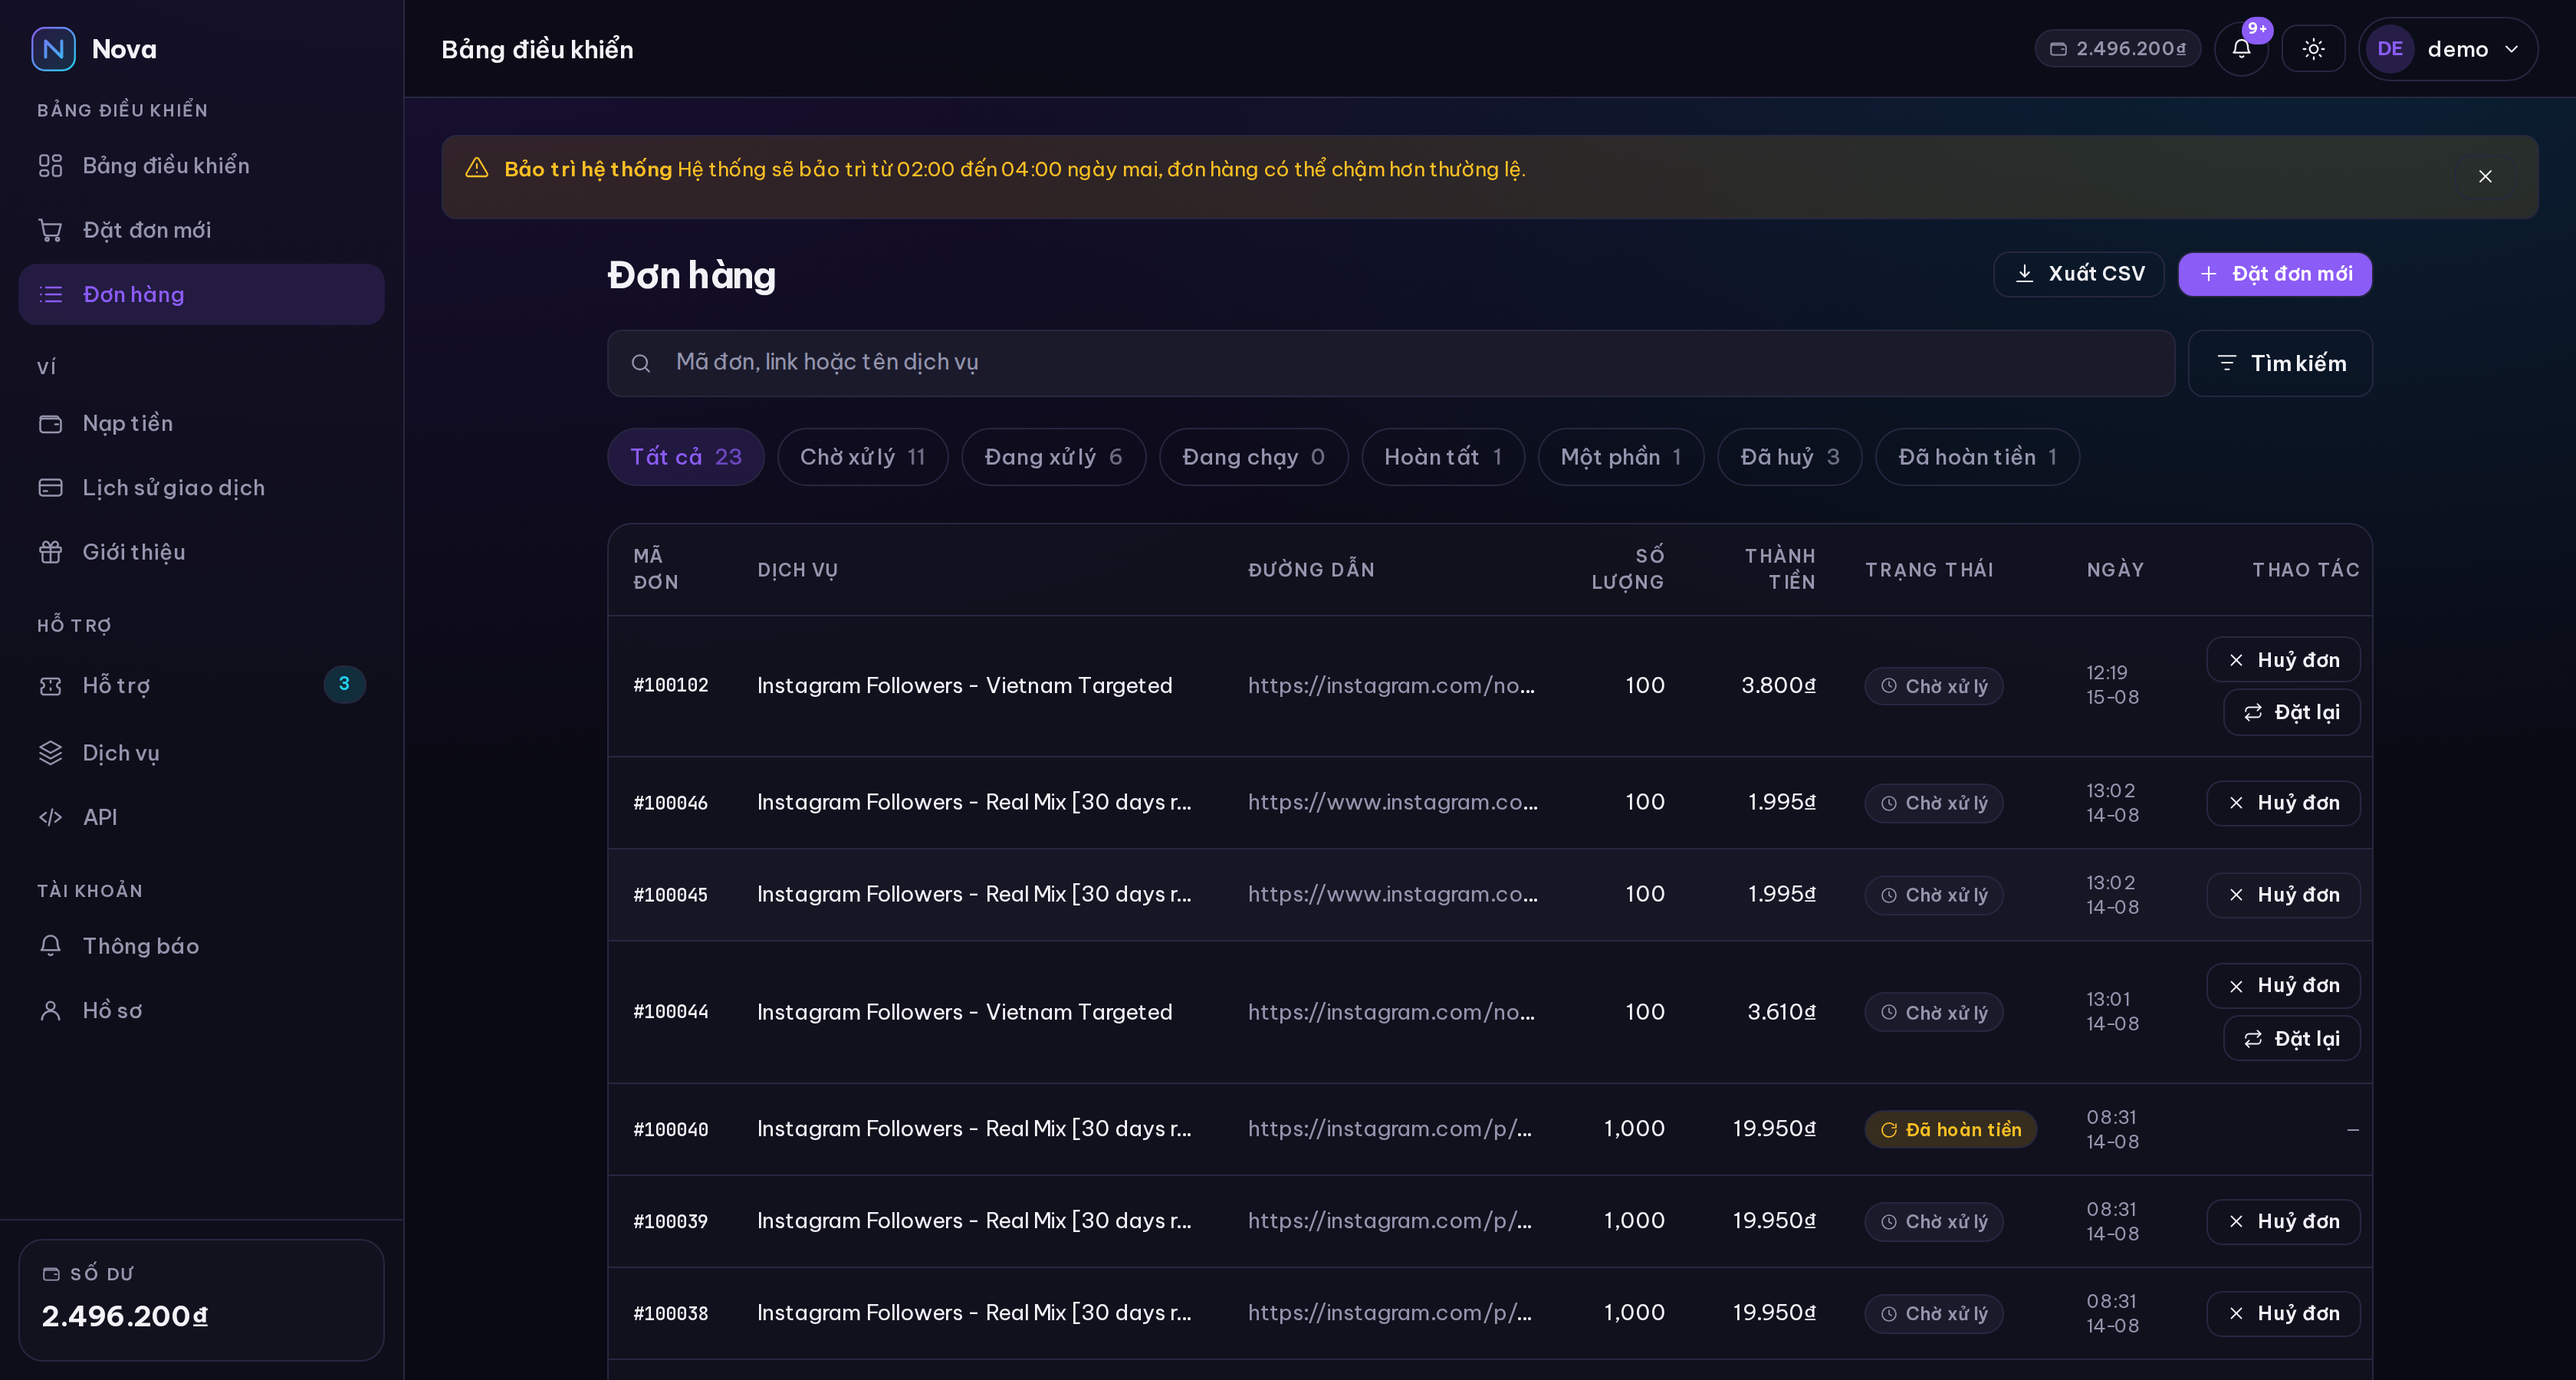
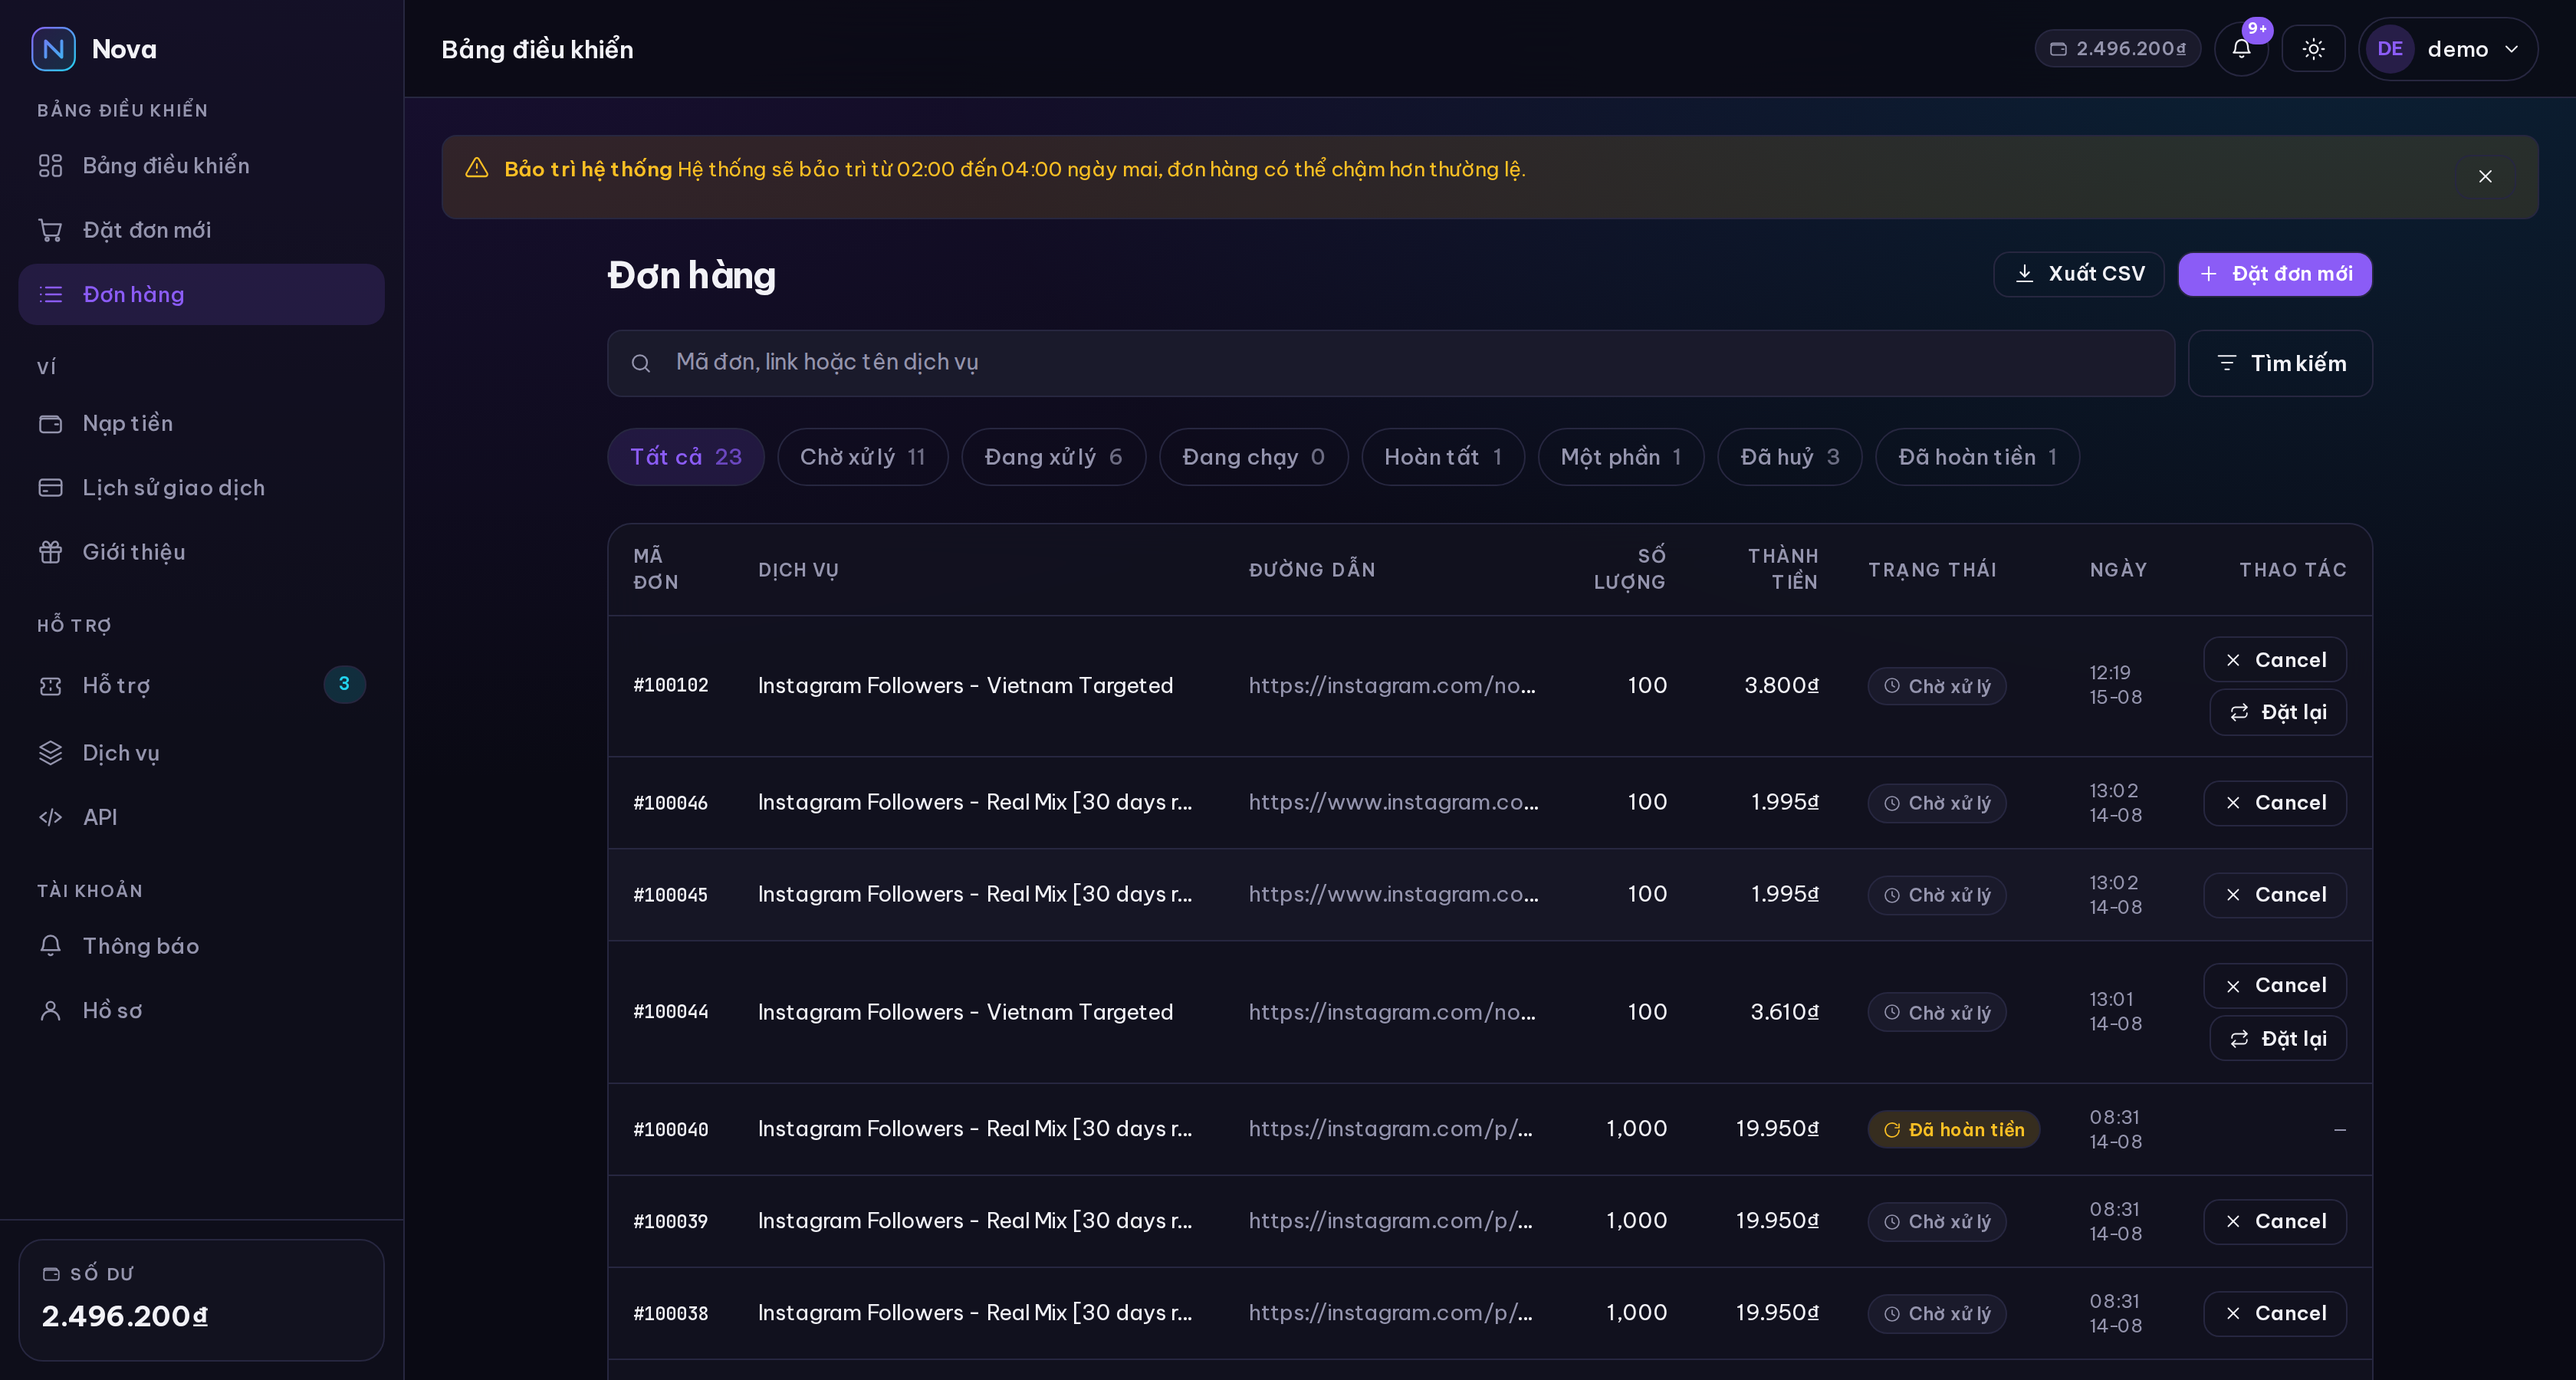
Refill and cancel keep their trade names in Vietnamese too
Twenty-nine strings: the buttons, the tiles, the request history, the
notification titles, the activity log, the admin settings and the
refusals that quote them. The Vietnamese sentence stays around the term —
"Đơn đã chạy nên không cancel được" — because it is the noun that is
jargon, not the grammar.

Left alone on purpose: status.canceled stays "Đã huỷ", which is one rung
of the status ladder rather than the cancel feature, and wallet's "Huỷ
lệnh nạp" has nothing to do with orders.

diff --git a/src/lib/dictionaries.ts b/src/lib/dictionaries.ts
@@ -1597,8 +1597,8 @@ export const vi: Partial<Record<keyof typeof en, string>> = {
   "log.order.mass": "Đặt mass order",
   "log.order.chain.blocked": "Đơn bị chặn ở tuyến trên",
   "log.order.chain.funds": "Tuyến trên không đủ số dư",
-  "log.order.refill.request": "Yêu cầu bảo hành",
-  "log.order.cancel.request": "Yêu cầu huỷ đơn",
+  "log.order.refill.request": "Yêu cầu refill",
+  "log.order.cancel.request": "Yêu cầu cancel",
   "log.admin.request.approved": "Duyệt yêu cầu",
   "log.admin.request.rejected": "Từ chối yêu cầu",
   "log.admin.request.completed": "Hoàn tất yêu cầu",
@@ -1832,12 +1832,12 @@ export const vi: Partial<Record<keyof typeof en, string>> = {
   "notify.ticket.reply.body": "{subject}",
   "notify.affiliate.commission.title": "Nhận hoa hồng giới thiệu",
   "notify.affiliate.commission.body": "Một người bạn giới thiệu vừa nạp tiền.",
-  "notify.request.refillApproved.title": "Yêu cầu bảo hành được duyệt",
-  "notify.request.refillRejected.title": "Yêu cầu bảo hành bị từ chối",
-  "notify.request.refillCompleted.title": "Đã bảo hành xong",
-  "notify.request.cancelApproved.title": "Yêu cầu huỷ được duyệt",
-  "notify.request.cancelRejected.title": "Yêu cầu huỷ bị từ chối",
-  "notify.request.cancelCompleted.title": "Đã huỷ xong",
+  "notify.request.refillApproved.title": "Yêu cầu refill được duyệt",
+  "notify.request.refillRejected.title": "Yêu cầu refill bị từ chối",
+  "notify.request.refillCompleted.title": "Đã refill xong",
+  "notify.request.cancelApproved.title": "Yêu cầu cancel được duyệt",
+  "notify.request.cancelRejected.title": "Yêu cầu cancel bị từ chối",
+  "notify.request.cancelCompleted.title": "Đã cancel xong",
   "notify.request.refillApproved.body": "Đơn #{orderId}",
   "notify.request.refillRejected.body": "Đơn #{orderId}",
   "notify.request.refillCompleted.body": "Đơn #{orderId}",
@@ -2026,7 +2026,7 @@ export const vi: Partial<Record<keyof typeof en, string>> = {
   "cron.jobHint.dispatch": "Lấy đơn chờ xử lý và mua, ưu tiên nguồn rẻ nhất.",
   "cron.job.statuses": "Kéo trạng thái đơn về",
   "cron.jobHint.statuses": "Hỏi từng nhà cung cấp xem đơn ra sao, và hoàn tiền phần giao thiếu.",
-  "cron.job.requests": "Xử lý yêu cầu bảo hành và huỷ",
+  "cron.job.requests": "Xử lý yêu cầu refill và cancel",
   "cron.jobHint.requests": "Áp dụng luật tự động, và huỷ đơn kẹt chưa gửi được.",
   "cron.job.chain": "Chuyển trạng thái xuống chuỗi panel",
   "cron.jobHint.chain": "Đưa kết quả từ panel gốc xuống tới đúng khách đã mua.",
@@ -2059,11 +2059,11 @@ export const vi: Partial<Record<keyof typeof en, string>> = {
   "adm.blockMissing": "Mục này không còn nữa.",
   "admin.release": "Duyệt",
   "admin.refuse": "Từ chối và hoàn tiền",
-  "err.noRefill": "Dịch vụ này không có bảo hành.",
-  "err.refillState": "Chỉ yêu cầu bảo hành được với đơn đã hoàn tất hoặc chạy một phần.",
-  "err.cancelDisabled": "Hiện tạm ngừng nhận yêu cầu huỷ đơn.",
-  "err.noCancel": "Dịch vụ này không cho huỷ đơn.",
-  "err.cancelStarted": "Đơn đã chạy nên không huỷ được.",
+  "err.noRefill": "Dịch vụ này không có refill.",
+  "err.refillState": "Chỉ yêu cầu refill được với đơn đã hoàn tất hoặc chạy một phần.",
+  "err.cancelDisabled": "Hiện tạm ngừng nhận yêu cầu cancel.",
+  "err.noCancel": "Dịch vụ này không cho cancel.",
+  "err.cancelStarted": "Đơn đã chạy nên không cancel được.",
   "err.requestOpen": "Đơn này đã có một yêu cầu đang chờ.",
   "err.chooseMethod": "Chọn một cổng thanh toán",
   "err.methodUnconfigured": "Cổng thanh toán này chưa cấu hình xong. Vui lòng chọn cổng khác.",
@@ -2105,7 +2105,7 @@ export const vi: Partial<Record<keyof typeof en, string>> = {
 
   "err.payUnconfigured": "Cổng thanh toán này chưa cấu hình xong.",
   "err.payUnreachable": "Không kết nối được tới cổng thanh toán. Vui lòng thử lại sau.",
-  "err.refillWindow": "Đơn này đã quá hạn bảo hành {days} ngày.",
+  "err.refillWindow": "Đơn này đã quá hạn refill {days} ngày.",
   "err.ticketsOpen": "Bạn đang có {count} ticket chưa đóng. Vui lòng đợi phản hồi trước khi mở ticket mới.",
   "err.minCharge": "Giá trị đơn tối thiểu là {amount}",
   "err.massQuantity": "Số lượng phải từ {min} đến {max}",
@@ -2180,8 +2180,8 @@ export const vi: Partial<Record<keyof typeof en, string>> = {
   "order.factOn": "Đang bán",
   "order.factTime": "Bắt đầu sau",
   "order.factUnknown": "Chưa ghi",
-  "order.factCancel": "Huỷ được",
-  "order.factWarranty": "Bảo hành",
+  "order.factCancel": "Cancel",
+  "order.factWarranty": "Refill",
   "order.factYes": "Có",
   "order.factNo": "Không",
   "order.listPrice": "Giá gốc",
@@ -2231,10 +2231,10 @@ export const vi: Partial<Record<keyof typeof en, string>> = {
   "setting.order.enabled": "Nhận đơn",
   "setting.order.minCharge": "Giá trị đơn tối thiểu",
   "setting.order.autoSendToProvider": "Tự gửi sang nhà cung cấp",
-  "setting.order.allowCancelRequests": "Nhận yêu cầu huỷ đơn",
-  "setting.order.refillWindowDays": "Hạn bảo hành (ngày)",
-  "setting.order.autoApproveRefill": "Tự duyệt bảo hành",
-  "setting.order.autoApproveCancel": "Tự duyệt huỷ đơn",
+  "setting.order.allowCancelRequests": "Nhận yêu cầu cancel",
+  "setting.order.refillWindowDays": "Hạn refill (ngày)",
+  "setting.order.autoApproveRefill": "Tự duyệt refill",
+  "setting.order.autoApproveCancel": "Tự duyệt cancel",
   "setting.order.stuckAfterMinutes": "Huỷ đơn chưa gửi sau (phút)",
   "setting.order.duplicateWindowMinutes": "Chặn đặt trùng trong (phút)",
   "setting.order.maxPerMinute": "Số đơn tối đa mỗi phút / tài khoản",
@@ -2442,7 +2442,7 @@ export const vi: Partial<Record<keyof typeof en, string>> = {
   "platform.seoTitleHint": "Viết theo cách người ta tìm kiếm, không phải tên nền tảng. Bỏ trống thì lấy tên.",
   "platform.seoDescription": "Mô tả ngắn",
   "platform.seoBody": "Nội dung trang",
-  "service.refill": "Bảo hành",
+  "service.refill": "Refill",
   "service.standard": "Thường",
   "service.id": "ID",
   "order.min": "Tối thiểu",
@@ -2455,13 +2455,13 @@ export const vi: Partial<Record<keyof typeof en, string>> = {
   "order.delivered": "Đã giao",
   "order.finished": "Kết thúc",
   "order.took": "Mất",
-  "order.requestHistory": "Lịch sử bảo hành & huỷ đơn",
+  "order.requestHistory": "Lịch sử refill & cancel",
   "order.details": "Chi tiết đơn",
   "order.remains": "Còn lại",
   "order.id": "Mã đơn",
   "order.search": "Mã đơn, link hoặc tên dịch vụ",
   "order.averageTime": "Thời gian trung bình",
-  "order.refill": "Bảo hành",
+  "order.refill": "Refill",
   "order.placed": "Đã tạo đơn #{id}",
   "order.track": "Theo dõi đơn",
   "order.insufficient": "Số dư của bạn không đủ cho đơn này.",
@@ -2472,7 +2472,7 @@ export const vi: Partial<Record<keyof typeof en, string>> = {
   "order.selectCategoryFirst": "Chọn danh mục trước",
   "order.single": "Đơn lẻ",
   "order.mass": "Mass order",
-  "order.cancel": "Huỷ đơn",
+  "order.cancel": "Cancel",
   "order.dripfeed": "Drip-feed",
   "order.runs": "Số lần chạy",
   "order.interval": "Khoảng cách",
@@ -2486,15 +2486,15 @@ export const vi: Partial<Record<keyof typeof en, string>> = {
   "order.massPlaced": "Đã tạo {n} đơn",
   "order.massFailed": "Lỗi",
   "order.massLine": "Dòng",
-  "order.refillPending": "Đã gửi yêu cầu bảo hành",
+  "order.refillPending": "Đã gửi yêu cầu refill",
   "order.reorder": "Đặt lại",
-  "request.title": "Yêu cầu bảo hành & huỷ đơn",
+  "request.title": "Yêu cầu refill & cancel",
   "request.complete": "Đánh dấu hoàn tất",
   "request.status.pending": "Chờ duyệt",
   "request.status.approved": "Đã duyệt",
   "request.status.rejected": "Từ chối",
   "request.status.completed": "Hoàn tất",
-  "order.cancelPending": "Đã gửi yêu cầu huỷ",
+  "order.cancelPending": "Đã gửi yêu cầu cancel",
   "common.yes": "Có",
   "common.export": "Xuất CSV",
   "common.exportAll": "Xuất toàn bộ",
